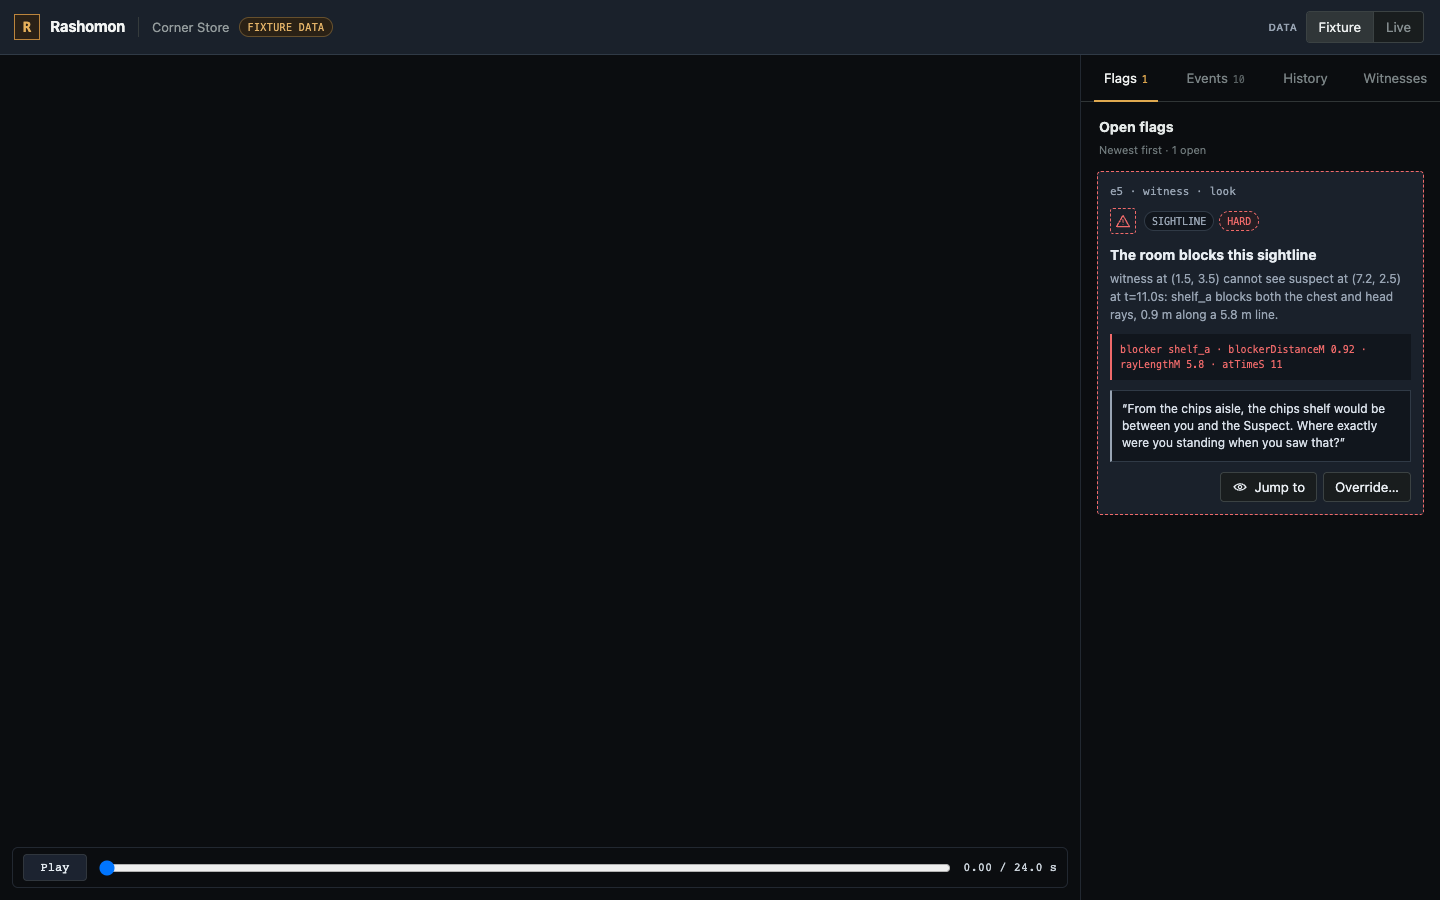
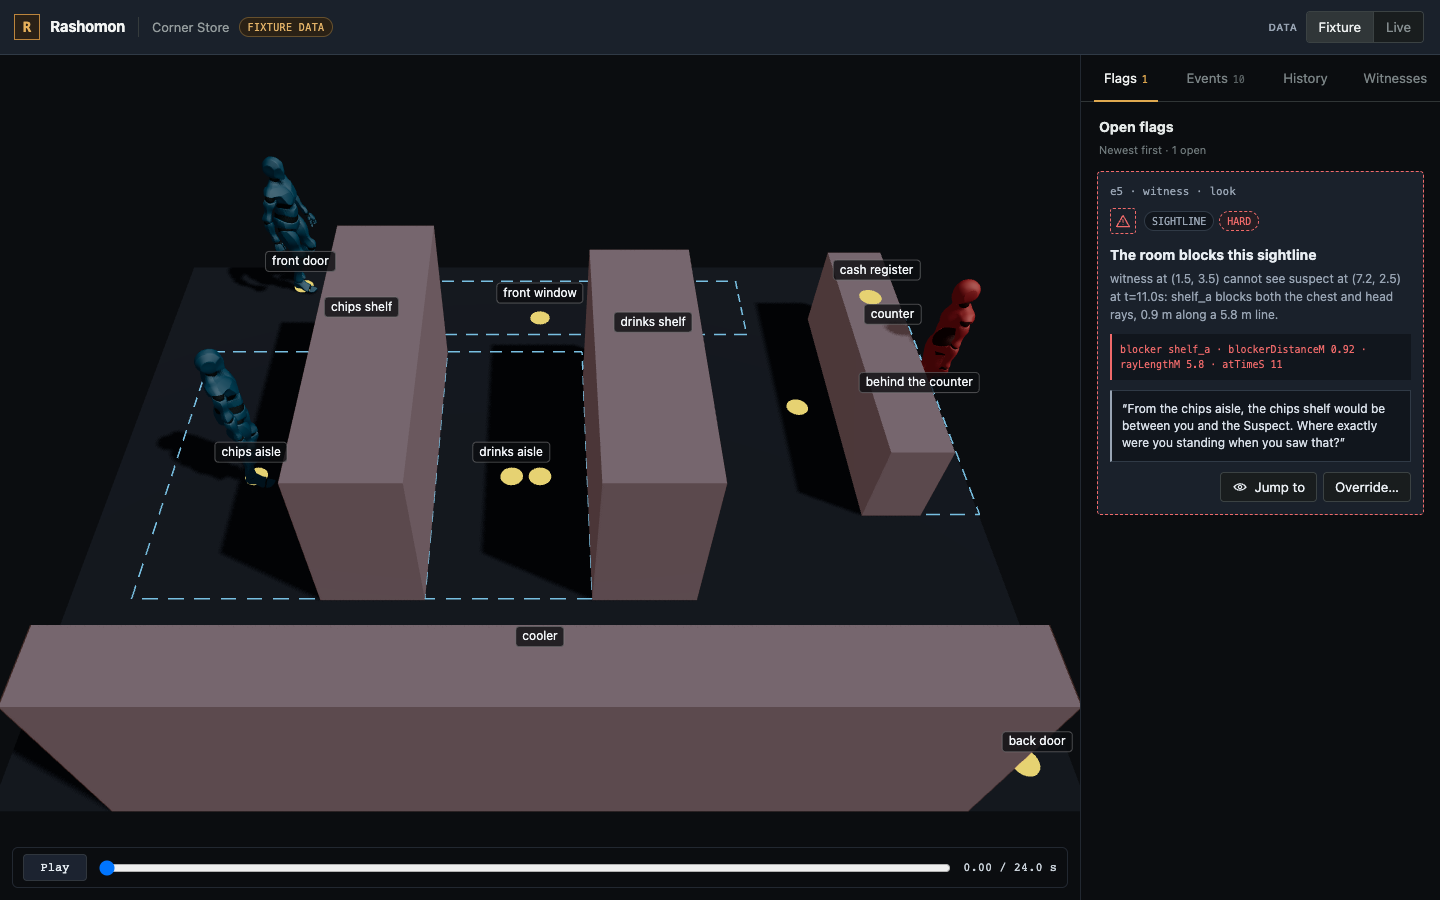
ui: PR #14 second review (truthful live badge, confirm before leaving fixture)
- Merged origin/main so the branch has scene-core N3: ?mode=live really connects to SpacetimeDB
- The badge comes from modeBadge(mode, hasGraph): "Fixture data", "Live" once useGraph().resolved is non-null, "Live · connecting" while it is null; the "still playing the fixture" tooltip and the unused liveConnected prop are gone (graphMode.test.ts covers all three)
- Leaving fixture mode with an override in the graph asks for confirmation first, since the reload drops it
- Screenshots: topbar-fixture.png, topbar-live-connecting.png (no local SpacetimeDB on this laptop)

Changed region(s): [[0.0, 0.1867, 0.75, 0.9022], [0.5312, 0.28, 0.6875, 0.5911], [0.3438, 0.4978, 0.375, 0.56]]

diff --git a/apps/web/src/ui/TopBar.tsx b/apps/web/src/ui/TopBar.tsx
@@ -1,5 +1,5 @@
 import { useGraph } from "../scene";
-import { GRAPH_MODES, parseMode, searchWithMode, type GraphMode } from "./graphMode";
+import { GRAPH_MODES, LEAVE_FIXTURE_WARNING, modeBadge, parseMode, searchWithMode, type GraphMode } from "./graphMode";
 import "./rashomon-ui.css";
 
 const SCENE_LABELS: Record<string, string> = { store_v1: "Corner Store" };
@@ -7,25 +7,23 @@ const SCENE_LABELS: Record<string, string> = { store_v1: "Corner Store" };
 const MODE_LABELS: Record<GraphMode, string> = { fixture: "Fixture", live: "Live" };
 
 export function useGraphMode(): [GraphMode, (mode: GraphMode) => void] {
+  const { resolved } = useGraph();
   const mode = parseMode(window.location.search);
   const setMode = (next: GraphMode) => {
     if (next === mode) return;
+    const hasOverrides = mode === "fixture" && resolved?.events.some((event) => event.override);
+    if (hasOverrides && !window.confirm(LEAVE_FIXTURE_WARNING)) return;
     window.location.search = searchWithMode(window.location.search, next);
   };
   return [mode, setMode];
 }
 
-function ModeBadge({ mode, liveConnected }: { mode: GraphMode; liveConnected: boolean }) {
-  if (mode === "fixture") return <span className="badge badge--amber">Fixture data</span>;
-  if (liveConnected) return <span className="badge badge--green">Live</span>;
-  return (
-    <span className="badge badge--red" title="No live backend yet; the scene is still playing the fixture">
-      Live · not connected
-    </span>
-  );
+function ModeBadge({ mode, hasGraph }: { mode: GraphMode; hasGraph: boolean }) {
+  const badge = modeBadge(mode, hasGraph);
+  return <span className={`badge badge--${badge.tone}`}>{badge.label}</span>;
 }
 
-export function TopBar({ liveConnected = false }: { liveConnected?: boolean }) {
+export function TopBar() {
   const { resolved } = useGraph();
   const [mode, setMode] = useGraphMode();
   const sceneId = resolved?.sceneId;
@@ -38,7 +36,7 @@ export function TopBar({ liveConnected = false }: { liveConnected?: boolean }) {
         <strong>Rashomon</strong>
         <div className="divider" />
         <span>{sceneLabel}</span>
-        <ModeBadge mode={mode} liveConnected={liveConnected} />
+        <ModeBadge mode={mode} hasGraph={resolved !== null} />
       </div>
       <div className="top-actions">
         <span className="field-label" style={{ margin: 0 }}>

diff --git a/apps/web/src/ui/graphMode.test.ts b/apps/web/src/ui/graphMode.test.ts
@@ -1,5 +1,5 @@
 import { describe, expect, test } from "vitest";
-import { parseMode, searchWithMode } from "./graphMode";
+import { modeBadge, parseMode, searchWithMode } from "./graphMode";
 
 describe("parseMode", () => {
   test("defaults to fixture", () => {
@@ -30,5 +30,13 @@ describe("searchWithMode", () => {
   test("round-trips through parseMode", () => {
     expect(parseMode(searchWithMode("", "live"))).toBe("live");
     expect(parseMode(searchWithMode("?mode=live", "fixture"))).toBe("fixture");
+  });
+});
+
+describe("modeBadge", () => {
+  test("fixture says so, live says Live only once a graph has arrived", () => {
+    expect(modeBadge("fixture", true)).toEqual({ label: "Fixture data", tone: "amber" });
+    expect(modeBadge("live", false)).toEqual({ label: "Live · connecting", tone: "red" });
+    expect(modeBadge("live", true)).toEqual({ label: "Live", tone: "green" });
   });
 });

diff --git a/apps/web/src/ui/graphMode.ts b/apps/web/src/ui/graphMode.ts
@@ -11,3 +11,13 @@ export function searchWithMode(search: string, mode: GraphMode): string {
   params.set("mode", mode);
   return `?${params.toString()}`;
 }
+
+export type ModeBadge = { label: string; tone: "amber" | "green" | "red" };
+
+export function modeBadge(mode: GraphMode, hasGraph: boolean): ModeBadge {
+  if (mode === "fixture") return { label: "Fixture data", tone: "amber" };
+  return hasGraph ? { label: "Live", tone: "green" } : { label: "Live · connecting", tone: "red" };
+}
+
+export const LEAVE_FIXTURE_WARNING =
+  "Switching reloads the page and drops the overrides made in fixture mode. Switch anyway?";
